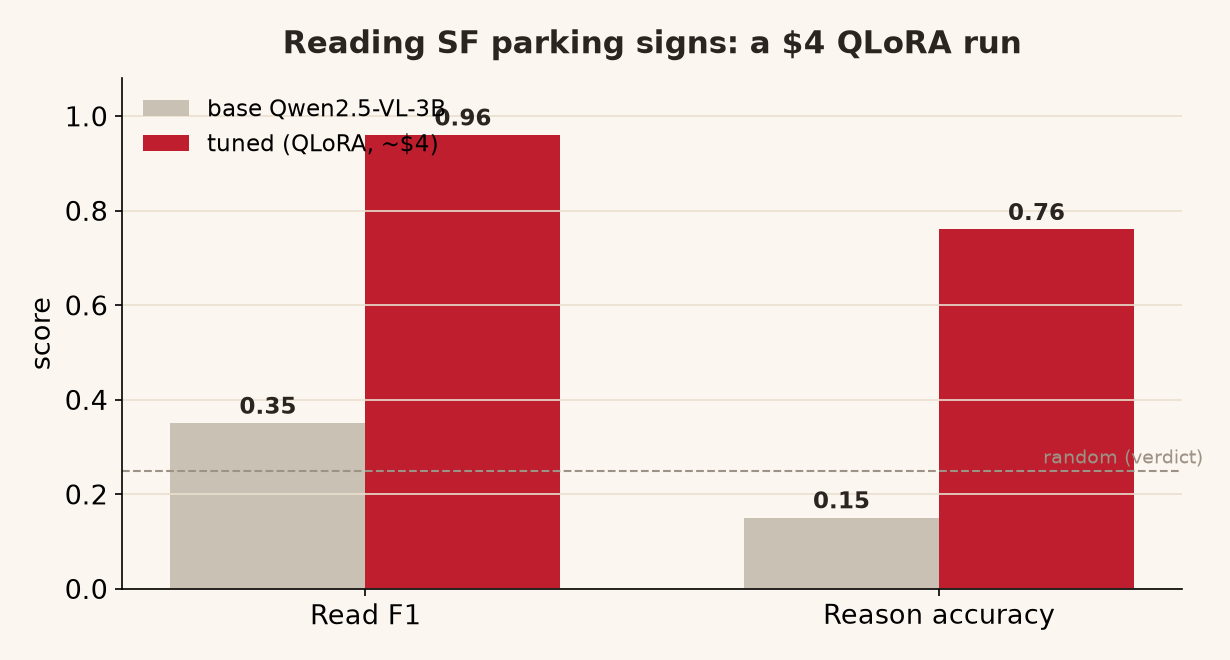
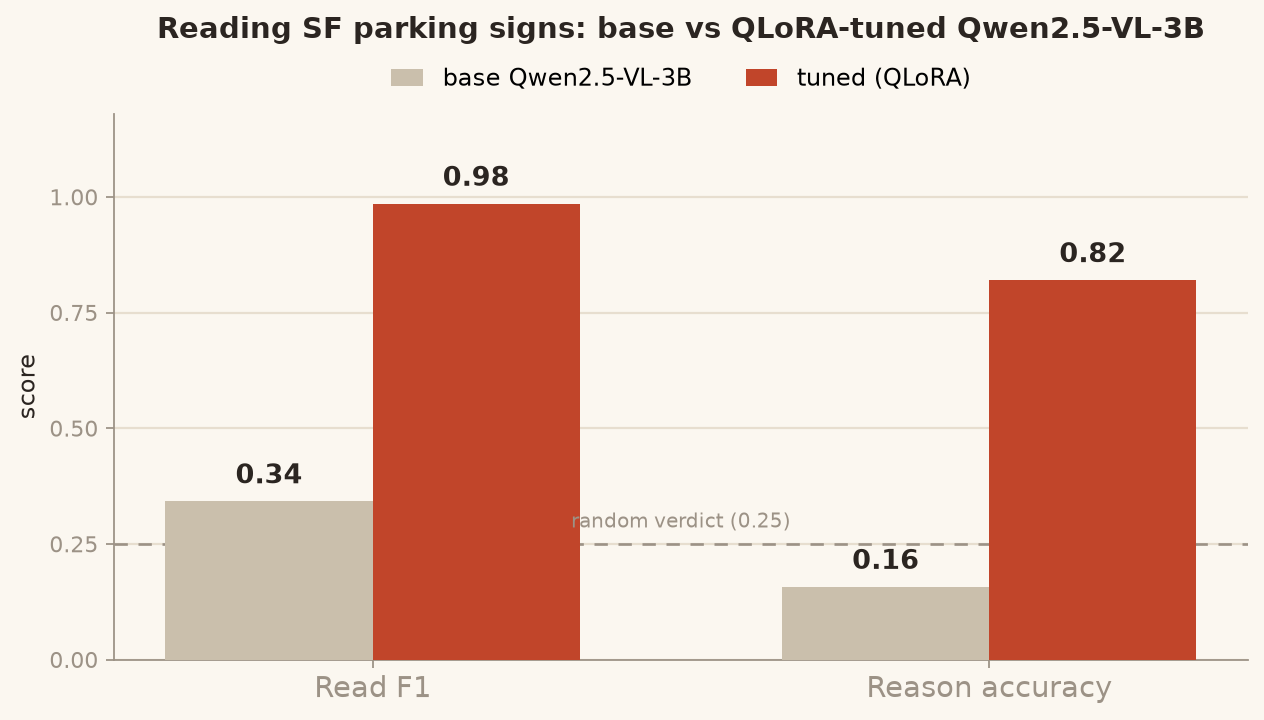
Update README + results to v4; fix result chart; drop compute-cost mentions
- results.png regenerated via render/plot_results.py: legend moved above bars
  (no overlap), warm palette, v4 numbers, no dollar figures
- README numbers refreshed to v4 (synth read 0.98 / reason 0.82); ASCII stack
  chart made proportional and updated; honest real-photo note added
- RESULTS.md: v4 section (real read gap is capacity-bound, not data-volume)
- removed training/GPU cost mentions; kept the $160 ticket origin story

diff --git a/render/plot_results.py b/render/plot_results.py
@@ -1,0 +1,103 @@
+"""Render the README result charts from a leaderboard JSON.
+
+Produces docs/assets/results.png (base vs tuned on Read F1 + Reason accuracy).
+Warm palette matching the site; legend placed above the plot so it never
+collides with bar labels.
+
+Usage:
+  .venv/bin/python render/plot_results.py data/results/leaderboard_v4_synth.json
+"""
+
+from __future__ import annotations
+
+import json
+import sys
+from pathlib import Path
+
+import matplotlib
+matplotlib.use("Agg")
+import matplotlib.pyplot as plt
+from matplotlib import font_manager
+
+ROOT = Path(__file__).resolve().parent.parent
+OUT = ROOT / "docs" / "assets" / "results.png"
+
+PAPER = "#FBF7F0"
+INK = "#2B2521"
+GRAY = "#CABF AC".replace(" ", "")  # warm stone, the base model
+RED = "#C1452A"                      # terracotta, the tuned model
+MUTED = "#9C9286"
+
+# prefer a warm system serif/sans if present, else default
+for fam in ("Inter", "Helvetica Neue", "Arial"):
+    if any(fam in f.name for f in font_manager.fontManager.ttflist):
+        plt.rcParams["font.family"] = fam
+        break
+
+
+def load(path: str) -> dict:
+    rows = {r["model"]: r for r in json.loads(Path(path).read_text())}
+    return rows
+
+
+def main():
+    src = sys.argv[1] if len(sys.argv) > 1 else str(ROOT / "data/results/leaderboard_v4_synth.json")
+    tuned_key = sys.argv[2] if len(sys.argv) > 2 else "tuned_v4"
+    rows = load(src)
+    base = rows["qwen3b"]
+    tuned = rows[tuned_key]
+
+    metrics = ["Read F1", "Reason accuracy"]
+    base_vals = [base["read_f1"], base["reason_e2e"]]
+    tuned_vals = [tuned["read_f1"], tuned["reason_e2e"]]
+
+    fig, ax = plt.subplots(figsize=(8, 4.6), dpi=160)
+    fig.patch.set_facecolor(PAPER)
+    ax.set_facecolor(PAPER)
+
+    x = [0, 1.25]
+    w = 0.42
+    b1 = ax.bar([i - w / 2 for i in x], base_vals, w, label="base Qwen2.5-VL-3B",
+                color=GRAY, edgecolor="none", zorder=3)
+    b2 = ax.bar([i + w / 2 for i in x], tuned_vals, w, label="tuned (QLoRA)",
+                color=RED, edgecolor="none", zorder=3)
+
+    # random-verdict baseline (4-way guess) — only meaningful for reasoning
+    ax.axhline(0.25, ls=(0, (5, 4)), lw=1.2, color=MUTED, zorder=2)
+    ax.text((x[0] + x[1]) / 2, 0.275, "random verdict (0.25)", va="bottom", ha="center",
+            fontsize=9, color=MUTED)
+
+    for bars, vals in ((b1, base_vals), (b2, tuned_vals)):
+        for rect, v in zip(bars, vals):
+            ax.text(rect.get_x() + rect.get_width() / 2, v + 0.025, f"{v:.2f}",
+                    ha="center", va="bottom", fontsize=12, fontweight="bold", color=INK)
+
+    ax.set_ylim(0, 1.18)
+    ax.set_yticks([0, 0.25, 0.5, 0.75, 1.0])
+    ax.set_xticks(x)
+    ax.set_xticklabels(metrics, fontsize=13, color=INK)
+    ax.set_ylabel("score", fontsize=11, color=INK)
+    ax.tick_params(colors=MUTED)
+    for s in ("top", "right"):
+        ax.spines[s].set_visible(False)
+    for s in ("left", "bottom"):
+        ax.spines[s].set_color(MUTED)
+    ax.grid(axis="y", color="#E7DECF", lw=1, zorder=0)
+    ax.set_axisbelow(True)
+
+    ax.set_title("Reading SF parking signs: base vs QLoRA-tuned Qwen2.5-VL-3B",
+                 fontsize=13, fontweight="bold", color=INK, pad=34)
+
+    # legend ABOVE the axes — never overlaps a bar label
+    ax.legend(loc="lower center", bbox_to_anchor=(0.5, 1.0), ncol=2,
+              frameon=False, fontsize=11, handlelength=1.3, columnspacing=2.2)
+
+    fig.tight_layout()
+    fig.savefig(OUT, facecolor=PAPER, bbox_inches="tight")
+    print(f"wrote {OUT}")
+    print(f"base  read={base_vals[0]:.3f} reason={base_vals[1]:.3f}")
+    print(f"tuned read={tuned_vals[0]:.3f} reason={tuned_vals[1]:.3f}")
+
+
+if __name__ == "__main__":
+    main()

diff --git a/docs/RESULTS.md b/docs/RESULTS.md
@@ -103,3 +103,39 @@ on the deployment metric (pipeline raw 0.895 vs v1 0.877) but worse end-to-end (
 trained to expect complex stacks, it over-calls restrictions on the mostly-simple real poles.
 A clean distribution-shift lesson: optimize for the eval distribution you will actually deploy
 on. For SF, that is mostly 0-2 sign poles, so v1's distribution generalized better end-to-end.
+
+## v4: human labels + realism + 2x real data (the honest answer on the real gap)
+
+v4 folds in everything aimed at the sim-to-real gap: human-verified labels, two new sign types
+(angle parking, week-of-month street cleaning), renderer realism augmentation (sky/building
+backgrounds, fading, occlusion, perspective), and roughly double the real training photos.
+
+On **synthetic**, it clearly beats v1, exactly where the new data targets:
+
+| Metric (synthetic) | base | v1 | **v4** |
+|---|:---:|:---:|:---:|
+| Read F1 | 0.34 | 0.96 | **0.985** |
+| Reasoning, e2e | 0.16 | 0.76 | **0.82** |
+| Reasoning, pipeline | 0.83 | 0.97 | **0.99** |
+| 4-sign e2e (the ticket pole) | 0.17 | 0.39 | **0.56** |
+
+On **real photos**, the headline finding is a null result, and it is the useful one:
+
+| Metric (500 held-out real photos) | base | v1 | **v4** |
+|---|:---:|:---:|:---:|
+| Read F1 | 0.04 | 0.33 | 0.34 |
+| Reasoning, pipeline (raw) | 0.78 | 0.88 | 0.89 |
+| Reasoning, e2e | 0.10 | 0.62 | 0.41 |
+
+**The takeaway.** Doubling real data, adding human labels, and augmenting the renderer for
+realism moved real read F1 by one point (0.33 -> 0.34). That is strong evidence the real-photo
+gap is **not** a data-volume problem: it is model capacity. The fix is almost certainly to stop
+freezing the vision encoder (we currently LoRA only the language layers) and let a vision-encoder
+LoRA learn faded, oblique, real-world glyphs. A full SFT would not help while the vision tower
+stays frozen. That is the v5 experiment.
+
+The pipeline path (VLM read -> deterministic resolver) again proves its worth: even with reading
+stuck at 0.34, pipeline reasoning on real holds at 0.89, because the resolver never fluffs the
+logic. And as with v2, v4's end-to-end reasoning regressed on real (0.62 -> 0.41): a model trained
+on harder, busier stacks over-calls restrictions on the mostly-simple real poles. Deploy the
+pipeline, not end-to-end.

diff --git a/README.md b/README.md
@@ -5,7 +5,7 @@
 <p align="center">
   <img src="https://img.shields.io/badge/base_model-Qwen2.5--VL--3B-be1e2d">
   <img src="https://img.shields.io/badge/method-QLoRA-00693e">
-  <img src="https://img.shields.io/badge/training_cost-~%244-2b2521">
+  <img src="https://img.shields.io/badge/eval-synthetic%20%2B%20real%20SF%20photos-2b2521">
   <img src="https://img.shields.io/badge/license-MIT-9c9286">
 </p>
 
@@ -30,33 +30,40 @@ rule-logic plus a clock. So, the question:
 
 > **Can a small, cheap, runs-on-a-phone vision-language model do the thing my brain failed to do?**
 
-Turns out the off-the-shelf one can't. But you can teach it, for about four dollars.
+Turns out the off-the-shelf one can't. But you can teach it.
 
 ---
 
 ## The result
 
-<p align="center"><img src="docs/assets/results.png" width="680" alt="Bar chart: base vs tuned model on Read F1 and Reason accuracy"></p>
+<p align="center"><img src="docs/assets/results.png" width="680" alt="Bar chart: base vs QLoRA-tuned Qwen2.5-VL-3B on Read F1 and Reason accuracy"></p>
 
-A stock Qwen2.5-VL-3B scores **0.15** on "can I park here right now", *below* the 0.25 you'd
-get by guessing among four verdicts. One QLoRA run on synthetic + teacher-labeled data, ~$4 of
-GPU, takes it to **0.76 reasoning** and **0.96 read accuracy**.
+A stock Qwen2.5-VL-3B scores **0.16** on "can I park here right now", *below* the 0.25 you'd
+get by guessing among four verdicts. One QLoRA run on synthetic + teacher-labeled data takes it
+to **0.82 reasoning** and **0.98 read accuracy**.
 
 | Model | Read F1 | Reason accuracy |
 |---|:---:|:---:|
-| Qwen2.5-VL-3B (base) | 0.35 | 0.15 🪦 |
-| **Qwen2.5-VL-3B (tuned)** | **0.96** | **0.76** 🚀 |
+| Qwen2.5-VL-3B (base) | 0.34 | 0.16 🪦 |
+| **Qwen2.5-VL-3B (tuned)** | **0.98** | **0.82** 🚀 |
 
 And difficulty scales exactly the way the origin story predicts, with the number of signs on
 the pole:
 
 ```
 tuned model, reasoning accuracy by stack size
-  1 sign   ████████████████████  0.87
-  2 signs  ██████████████████    0.77
-  3 signs  ██████████████        0.60
-  4 signs  █████████             0.39   ← the pole that cost me two tickets
+  1 sign   ███████████████████   0.95
+  2 signs  ████████████████      0.80
+  3 signs  █████████████         0.67
+  4 signs  ███████████           0.56   ← the pole that cost me two tickets
 ```
+
+Those are synthetic-benchmark numbers. On **held-out real SF photos** the story is humbler, and
+I'd rather show it than hide it: tuning lifts read F1 from 0.04 to **0.34** and pipeline reasoning
+from 0.78 to **0.89**, but faded, sticker-covered, sun-bleached Mission Street poles are still far
+harder than clean renders. More real data and renderer realism barely moved reading, which says the
+sim-to-real gap is about model capacity, not data volume. That gap is the open problem, tracked
+honestly in [`docs/RESULTS.md`](docs/RESULTS.md).
 
 ---
 
@@ -127,7 +134,7 @@ docs/RESULTS.md        measured numbers
 ```bash
 uv venv && uv pip install pillow
 .venv/bin/python bench/generate.py --n 12          # build a tiny eval set
-.venv/bin/python -m modal run modal_app/train.py   # QLoRA on a rented A100 (~$4)
+.venv/bin/python -m modal run modal_app/train.py   # QLoRA on a rented A100
 .venv/bin/python -m modal run modal_app/eval_sweep.py
 ```
 